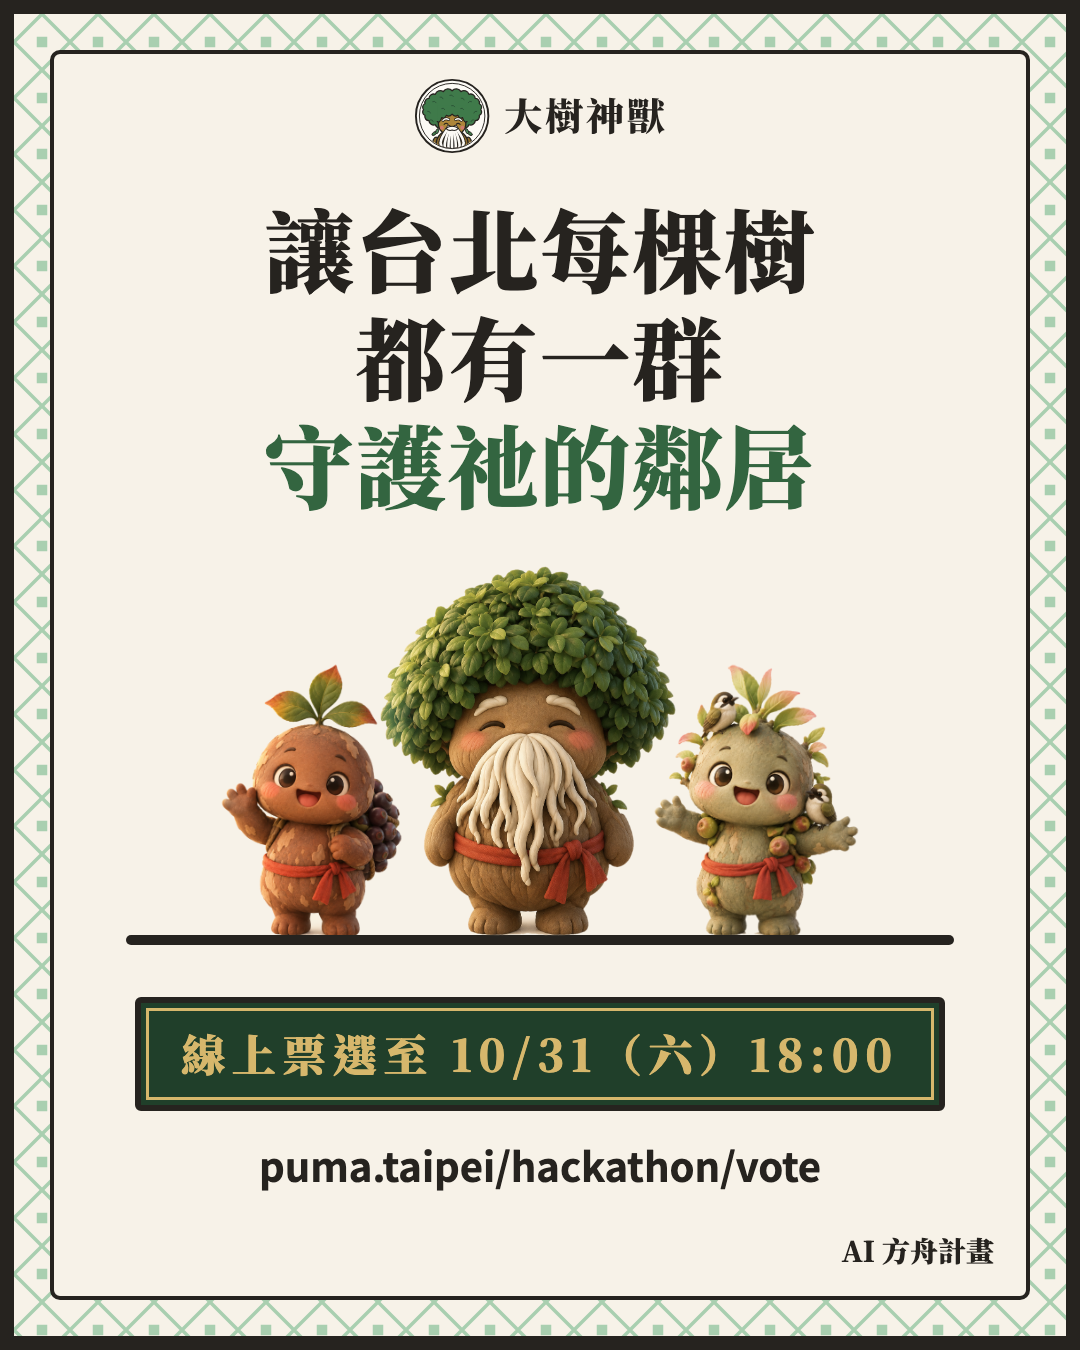
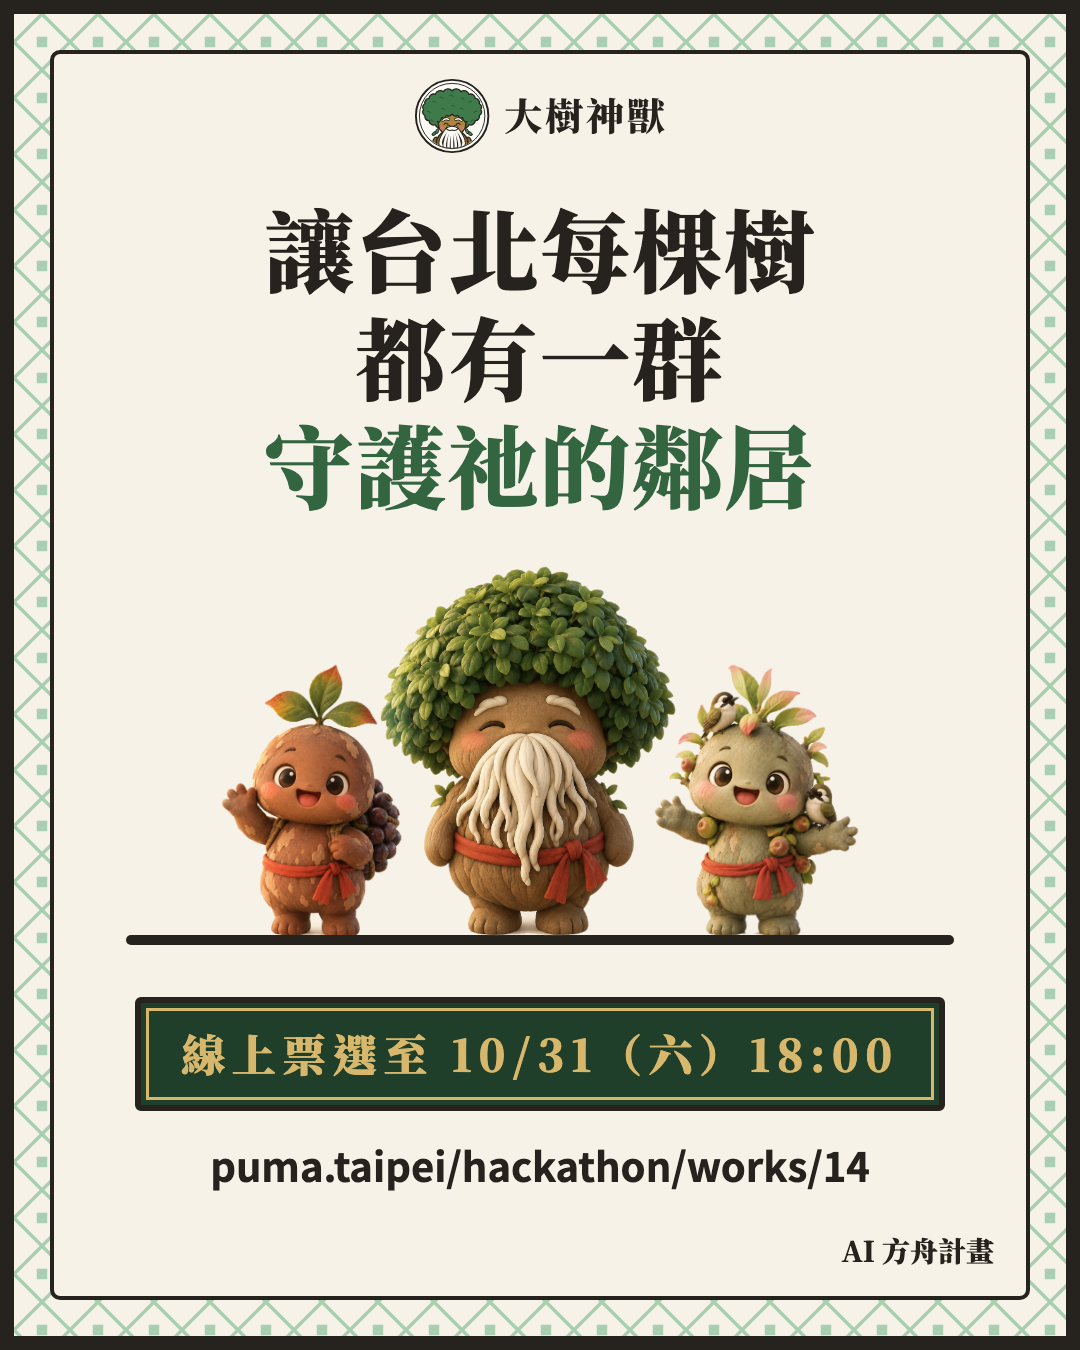
投票連結改成作品頁 works/14；關於我們加票選區與倒數計時，「我的」頁加投票按鈕
- 投票網址改成 https://puma.taipei/hackathon/works/14（主辦票選頁上大樹神獸的作品頁），貼文定稿、規劃文件、圖卡 C1、C2-5、C6 一起換
- about.html：填上 LINKS.vote，上方「幫我們投一票」按鈕出現；頁尾新增「喜歡大樹神獸嗎？」票選區，含倒數計時（台北時間 10/31 18:00，截止後改成感謝的話）
- js/me.js、css/me.css：「我的」頁在「關於大樹神獸」下方加「幫大樹神獸投一票」次要按鈕與截止說明（@Saori 這是妳的檔案，改之前先 git pull）

Changed region(s): [[0.1833, 0.84, 0.825, 0.9022]]

diff --git a/about.html b/about.html
@@ -296,6 +296,27 @@
       </div>
     </div>
   </section>
+  <!-- 票選 CTA：連到主辦票選頁上我們的作品頁（LINKS.vote） -->
+  <section class="ab-sec ab-vote" id="vote">
+    <div class="ab-wrap">
+      <div class="ab-head">
+        <p class="ab-eyebrow">線上票選</p>
+        <div class="dsh-ridge" aria-hidden="true"><span class="dsh-ridge__beam"></span></div>
+        <h2 class="ab-h2">喜歡大樹神獸嗎？</h2>
+      </div>
+      <p class="ab-vote__p">幫我們投一票，讓更多人知道台北的樹需要鄰居。<br>票選到 10/31（六）18:00，用 Google 或 LINE 登入就能投。</p>
+      <div class="ab-count" data-deadline="2026-10-31T18:00:00+08:00" role="timer" aria-live="off">
+        <p class="ab-count__label">距離票選截止還有</p>
+        <div class="ab-count__row">
+          <span class="ab-count__cell"><b data-unit="d">--</b>天</span>
+          <span class="ab-count__cell"><b data-unit="h">--</b>時</span>
+          <span class="ab-count__cell"><b data-unit="m">--</b>分</span>
+          <span class="ab-count__cell"><b data-unit="s">--</b>秒</span>
+        </div>
+      </div>
+      <a class="dsh-btn dsh-btn--primary ab-vote__btn" data-link="vote" href="" target="_blank" rel="noopener" hidden>幫大樹神獸投一票</a>
+    </div>
+  </section>
 </main>
 
 <!-- 8 頁尾 -->
@@ -310,7 +331,7 @@
 <script>
   // 外部連結填在這裡；留空的按鈕不顯示。
   const LINKS = {
-    vote: '',          // 票選頁網址（主辦公布後補上）
+    vote: 'https://puma.taipei/hackathon/works/14', // 主辦票選頁上我們的作品頁
     youtube: 'EBRw7Knmt9M', // Demo 影片：YouTube 網址或影片 ID
     linkedinQmoa: 'https://www.linkedin.com/in/qmoaliu/',
     linkedinSaori: 'https://linktr.ee/socratescafetw',
@@ -319,6 +340,28 @@
     const url = LINKS[a.dataset.link];
     if (url) { a.href = url; a.hidden = false; }
   });
+
+  // 票選倒數：截止時間寫在 data-deadline（台北時間），過了就改成感謝的話
+  const countEl = document.querySelector('.ab-count');
+  if (countEl) {
+    const end = new Date(countEl.dataset.deadline).getTime();
+    const units = Object.fromEntries([...countEl.querySelectorAll('[data-unit]')].map((b) => [b.dataset.unit, b]));
+    const pad = (n) => String(n).padStart(2, '0');
+    const tick = () => {
+      const left = Math.max(0, Math.floor((end - Date.now()) / 1000));
+      if (left === 0) {
+        countEl.innerHTML = '<p class="ab-count__done">票選已經截止，謝謝每一位投票、守護過一棵樹的人。</p>';
+        clearInterval(timer);
+        return;
+      }
+      units.d.textContent = Math.floor(left / 86400);
+      units.h.textContent = pad(Math.floor(left / 3600) % 24);
+      units.m.textContent = pad(Math.floor(left / 60) % 60);
+      units.s.textContent = pad(left % 60);
+    };
+    const timer = setInterval(tick, 1000);
+    tick();
+  }
 
   // YouTube：接受 watch?v=、youtu.be/、shorts/ 網址或直接貼影片 ID；用 nocookie 網域，點了才載入追蹤
   const ytId = (LINKS.youtube.match(/(?:v=|youtu\.be\/|shorts\/|embed\/)([\w-]{11})/) ?? [])[1]

diff --git a/css/about.css b/css/about.css
@@ -161,3 +161,17 @@
   .ab-steps.ab-grid--4 .ab-step { flex-direction: column; }
   .ab-lines { grid-template-columns: 1fr 1fr; gap: var(--space-6); }
 }
+
+/* 票選 CTA */
+.ab-vote { text-align: center; }
+.ab-vote__p { margin: 0 auto var(--space-6); max-width: 36em; font-size: 17px; line-height: 28px; }
+.ab-vote__btn { text-decoration: none; min-width: min(100%, 320px); }
+/* 票選倒數：四格像匾額的小牌子 */
+.ab-count { margin: 0 auto var(--space-6); }
+.ab-count__label { margin: 0 0 var(--space-3); font-size: 15px; line-height: 22px; font-weight: 700; color: var(--brand-text); }
+.ab-count__row { display: flex; justify-content: center; gap: var(--space-2); }
+.ab-count__cell { display: flex; flex-direction: column; align-items: center; min-width: 72px; padding: var(--space-2) var(--space-3) var(--space-3);
+  background: var(--brand-strong); color: var(--honor-on-dark); border: var(--stroke-ui) solid var(--outline); border-radius: var(--radius-sm);
+  font-size: 14px; line-height: 20px; font-weight: 700; }
+.ab-count__cell b { font-family: var(--font-display); font-weight: 900; font-size: 36px; line-height: 44px; font-variant-numeric: tabular-nums; color: var(--ink-50); }
+.ab-count__done { margin: 0; font-family: var(--font-display); font-weight: 900; font-size: 20px; line-height: 30px; }

diff --git a/js/me.js b/js/me.js
@@ -6,6 +6,8 @@ import { getGuard, guardedIds, getAllMyReports } from './store.js';
 import { joinedEventCounts } from './board.js';
 
 const README = 'https://github.com/innerwork-saori/2026-debugWithPuma#readme';
+// 主辦票選頁上大樹神獸的作品頁（10/24 Qmoa 加）
+const VOTE = 'https://puma.taipei/hackathon/works/14';
 
 function statHtml(num, label) {
   return `<li class="me-stat"><span class="me-stat__num">${num}</span><span class="me-stat__label">${label}</span></li>`;
@@ -52,6 +54,8 @@ export function renderMePage(el) {
       </section>
 
       <a class="dsh-btn dsh-btn--primary dsh-btn--block me-about" href="about.html">關於大樹神獸</a>
+      <a class="dsh-btn dsh-btn--secondary dsh-btn--block me-vote" href="${VOTE}" target="_blank" rel="noopener">幫大樹神獸投一票</a>
+      <p class="me-vote__note">線上票選到 10/31（六）18:00，用 Google 或 LINE 登入就能投。</p>
     </div>`;
 
   joinedEventCounts().then(({ joined, ended }) => {

diff --git a/docs/vote-campaign/cards/cards.html b/docs/vote-campaign/cards/cards.html
@@ -141,7 +141,7 @@ const RIDGE_END = '<svg viewBox="0 0 32 24" fill="none" stroke="currentColor" st
 const APP = 'https://2026-debugwithpuma.tree-god.workers.dev/';
 const APP_SHORT = '2026-debugwithpuma.tree-god.workers.dev';
 // 投票網址（10/24 確認）。改這裡要重新輸出 C1、C2-5、C6
-const VOTE_SHORT = 'puma.taipei/hackathon/vote';
+const VOTE_SHORT = 'puma.taipei/hackathon/works/14';
 const DATA_NOTE = '樹木位置與樹種為臺北市開放資料，其餘為模擬資料';
 
 const head = (page, rev, center) => `<div class="vc__head"${center ? ' style="justify-content:center"' : ''}><img class="vc__logo" src="${rev ? LOGO_REV : LOGO}" alt="大樹神獸">${page ? `<span class="vc__page">${page}</span>` : ''}</div>`;

diff --git a/css/me.css b/css/me.css
@@ -23,3 +23,7 @@
 @media (min-width: 1024px) and (hover: hover) and (pointer: fine) {
   .tree-page[data-page="me"] { --page-max: var(--content-max); }
 }
+
+/* 票選入口（10/24） */
+.me-vote { margin-top: var(--space-3); text-decoration: none; }
+.me-vote__note { margin: var(--space-2) 0 0; text-align: center; font-size: 14px; line-height: 20px; color: var(--text-muted); }

diff --git a/docs/vote-campaign/票選宣傳規劃.md b/docs/vote-campaign/票選宣傳規劃.md
@@ -6,7 +6,7 @@
 
 ## 0｜票選規則（已知）與要先問主辦的事
 
-**投票網址：https://puma.taipei/hackathon/vote**（10/24 確認）。以下是從投票頁看到的規則，以主辦正式公布為準：
+**投票網址：https://puma.taipei/hackathon/works/14**（大樹神獸的作品頁，10/24 確認）。以下是從投票頁看到的規則，以主辦正式公布為準：
 
 - **10/24（六）17:00 開放**，10/31（六）18:00 截止。
 - 要用 **Google 或 LINE 登入**，每個帳號最多投 3 件作品，**每件限投一票，投出後不能收回**。所以文案寫「投我們一票」，不要寫成唯一選擇，並提醒先登入。
